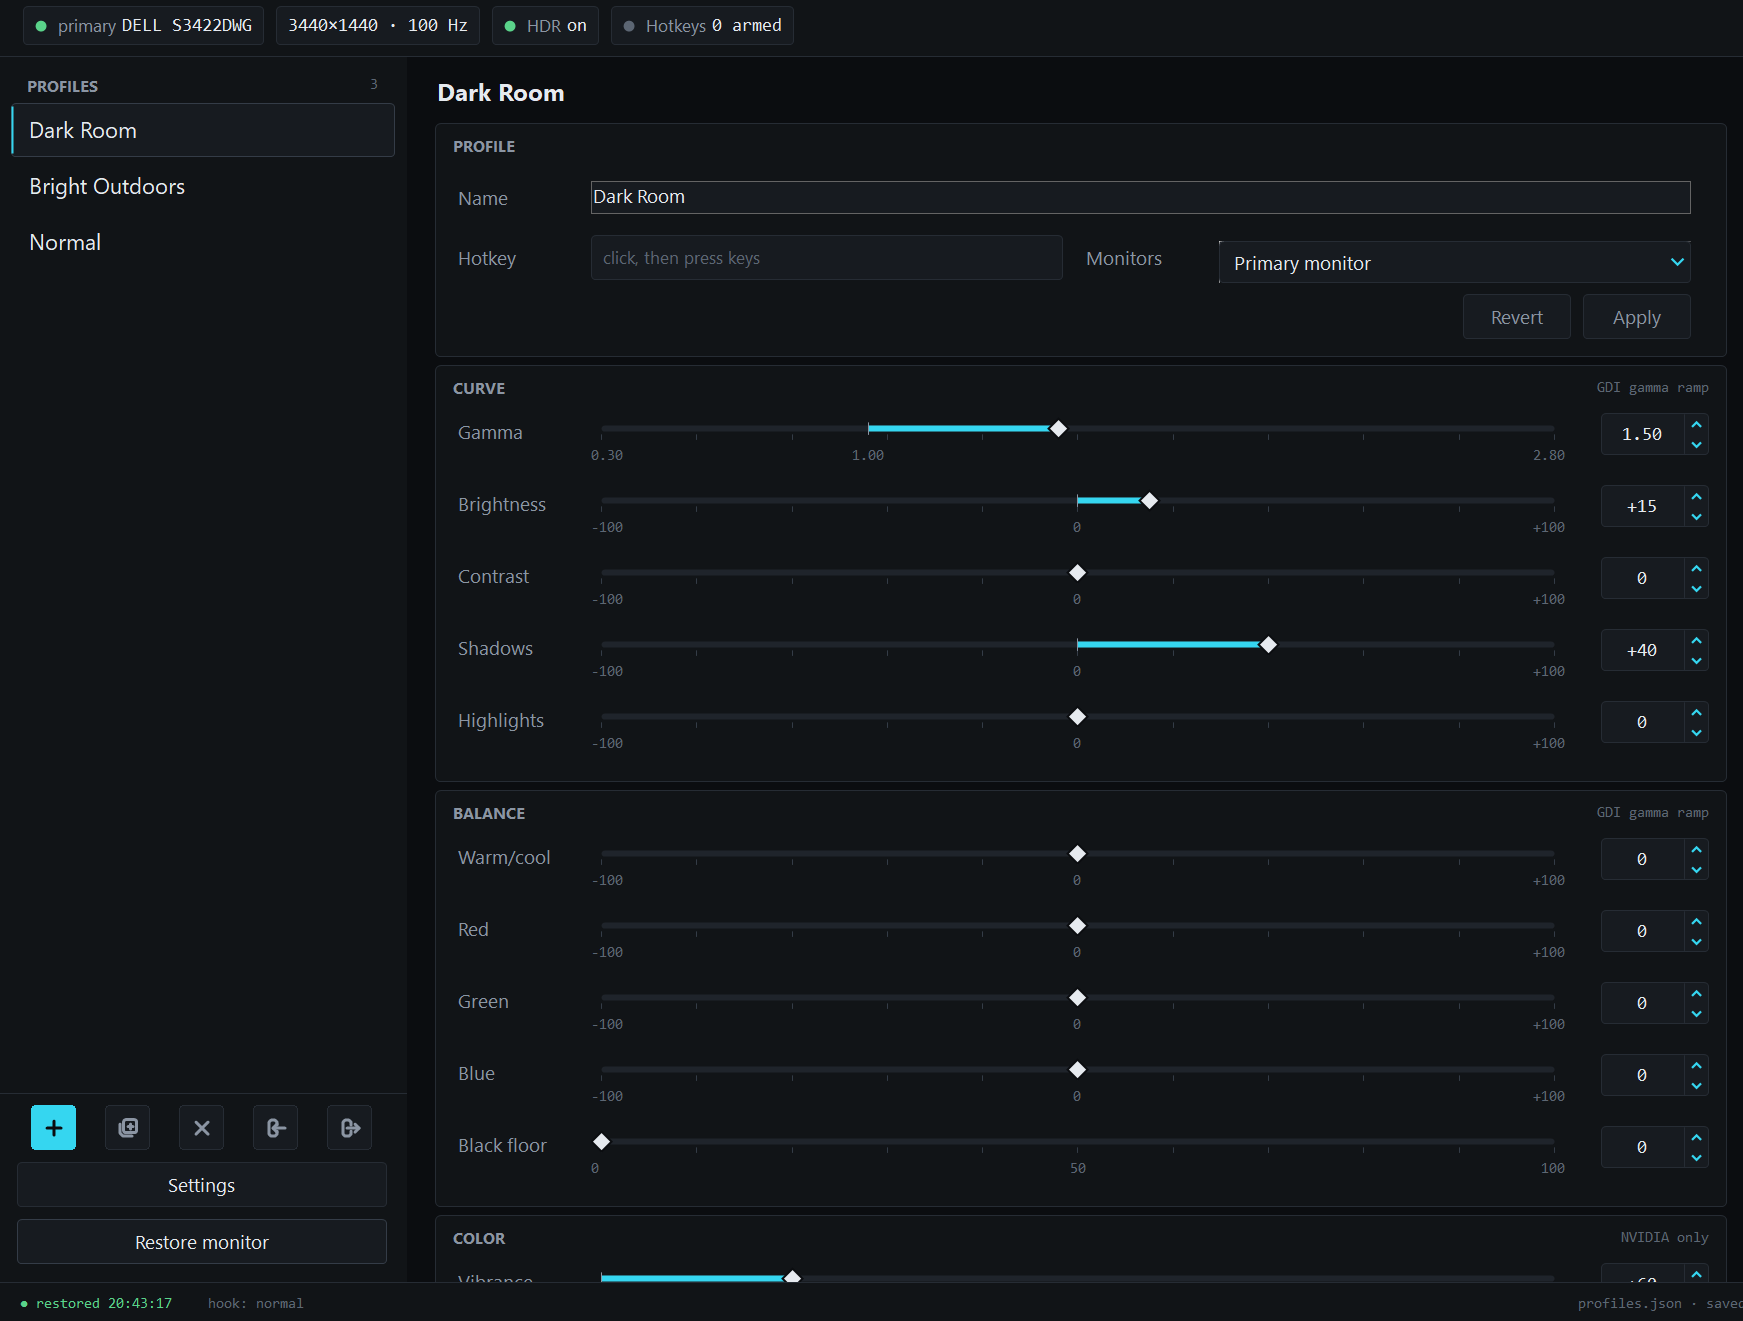
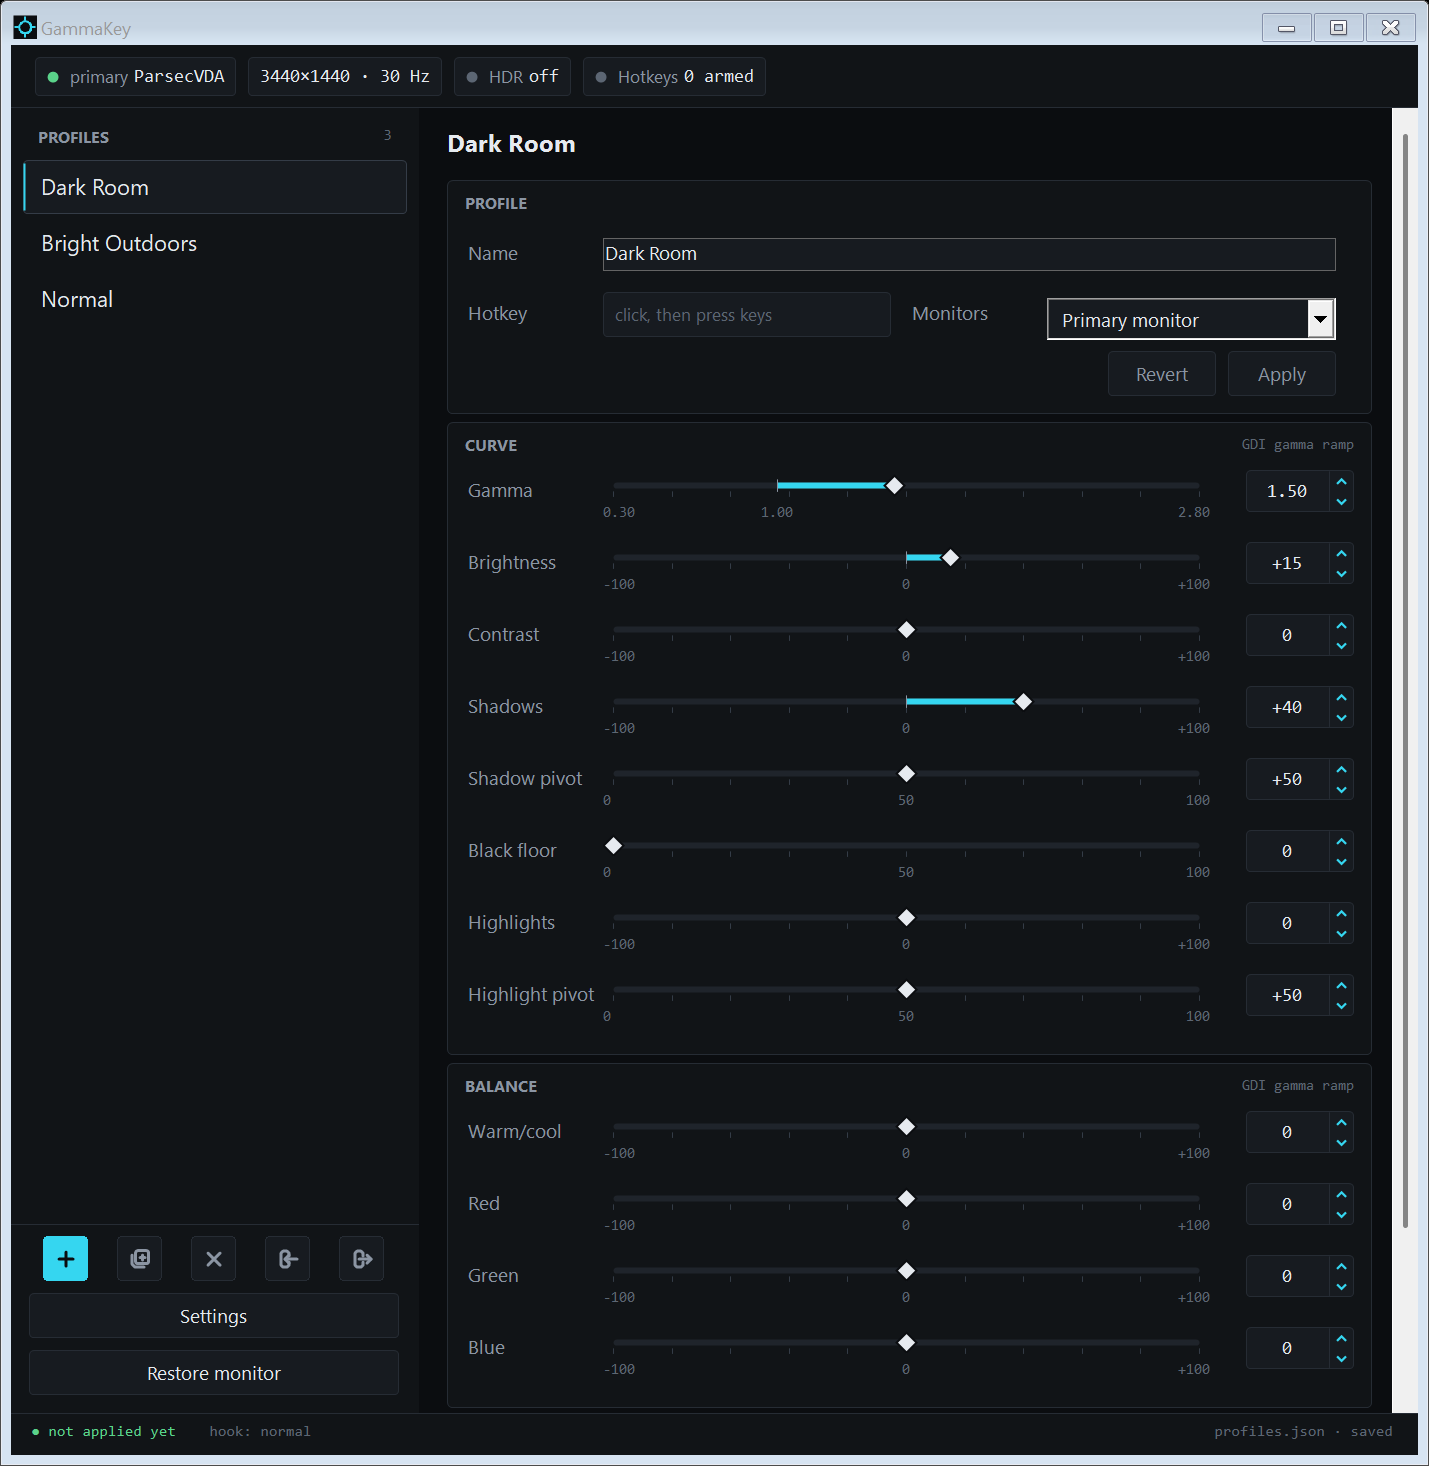
README lists the pivot sliders and Black floor under Curve; screenshot shows the new layout

diff --git a/README.md b/README.md
@@ -1,4 +1,4 @@
-# GammaKey
+# GammaKey
 
 Hotkey profiles for your monitor's picture on Windows. Save gamma, brightness, contrast, shadows,
 highlights, colour balance and NVIDIA vibrance as named profiles and switch between them with a
@@ -89,9 +89,17 @@ tray menu.
 |---|---|---|
 | Curve | Gamma | 0.30 to 2.80, 1.00 is normal |
 | Curve | Brightness, Contrast, Shadows, Highlights | -100 to +100 |
+| Curve | Shadow pivot, Highlight pivot | 0 to 100, 50 is normal |
+| Curve | Black floor | 0 to 100 |
 | Balance | Warm/cool, Red, Green, Blue | -100 to +100 |
-| Balance | Black floor | 0 to 100 |
 | Color | Vibrance (NVIDIA only) | 50 to 100, 50 is normal |
+
+Shadows lifts or crushes everything darker than its pivot; Highlights dims or boosts everything
+brighter than its pivot. Move a pivot to change how much of the picture its slider touches: a
+Shadow pivot at 25 lifts only the darkest quarter, a Highlight pivot at 0 scales the whole
+picture down, which caps how white white can be. Black floor sets the darkest level the screen
+shows. Windows refuses a table whose white falls below half, which is where Highlights -100 with
+the pivot at 0 lands.
 
 Curve and Balance change the colour table the graphics card applies to the whole screen. Vibrance
 is set in the NVIDIA driver and survives alt-tab.
